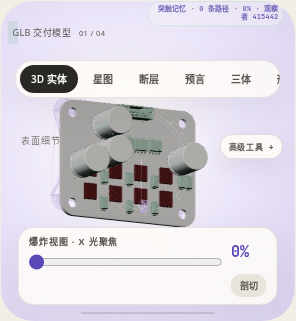
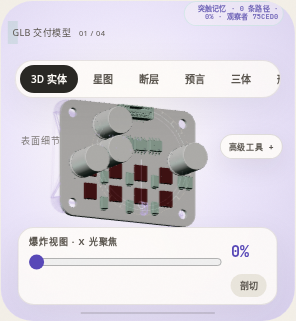
fix: keep mobile Lab story clear of model stage

diff --git a/src/css/motion-narrative.css b/src/css/motion-narrative.css
@@ -512,7 +512,7 @@ body:has(.motion-narrative) .hero,body:has(.motion-narrative) .marquee,body:has(
 
 @media (max-width: 360px) and (prefers-reduced-motion: no-preference) {
   .motion-model[data-artifact-view="model"] .neural-memory-readout {
-    max-width: 46%;
+    max-width: 34%;
     padding: 3px 4px;
     font-size: 7px;
     letter-spacing: 0.02em;
@@ -521,6 +521,10 @@ body:has(.motion-narrative) .hero,body:has(.motion-narrative) .marquee,body:has(
 
 /* Short phones need a taller stage so geometry has room between controls. */
 @media (max-width: 760px) and (max-height: 700px) and (prefers-reduced-motion: no-preference) {
+  .motion-chapter {
+    bottom: auto;
+  }
+
   .motion-model {
     top: 72%;
     height: 50svh;
